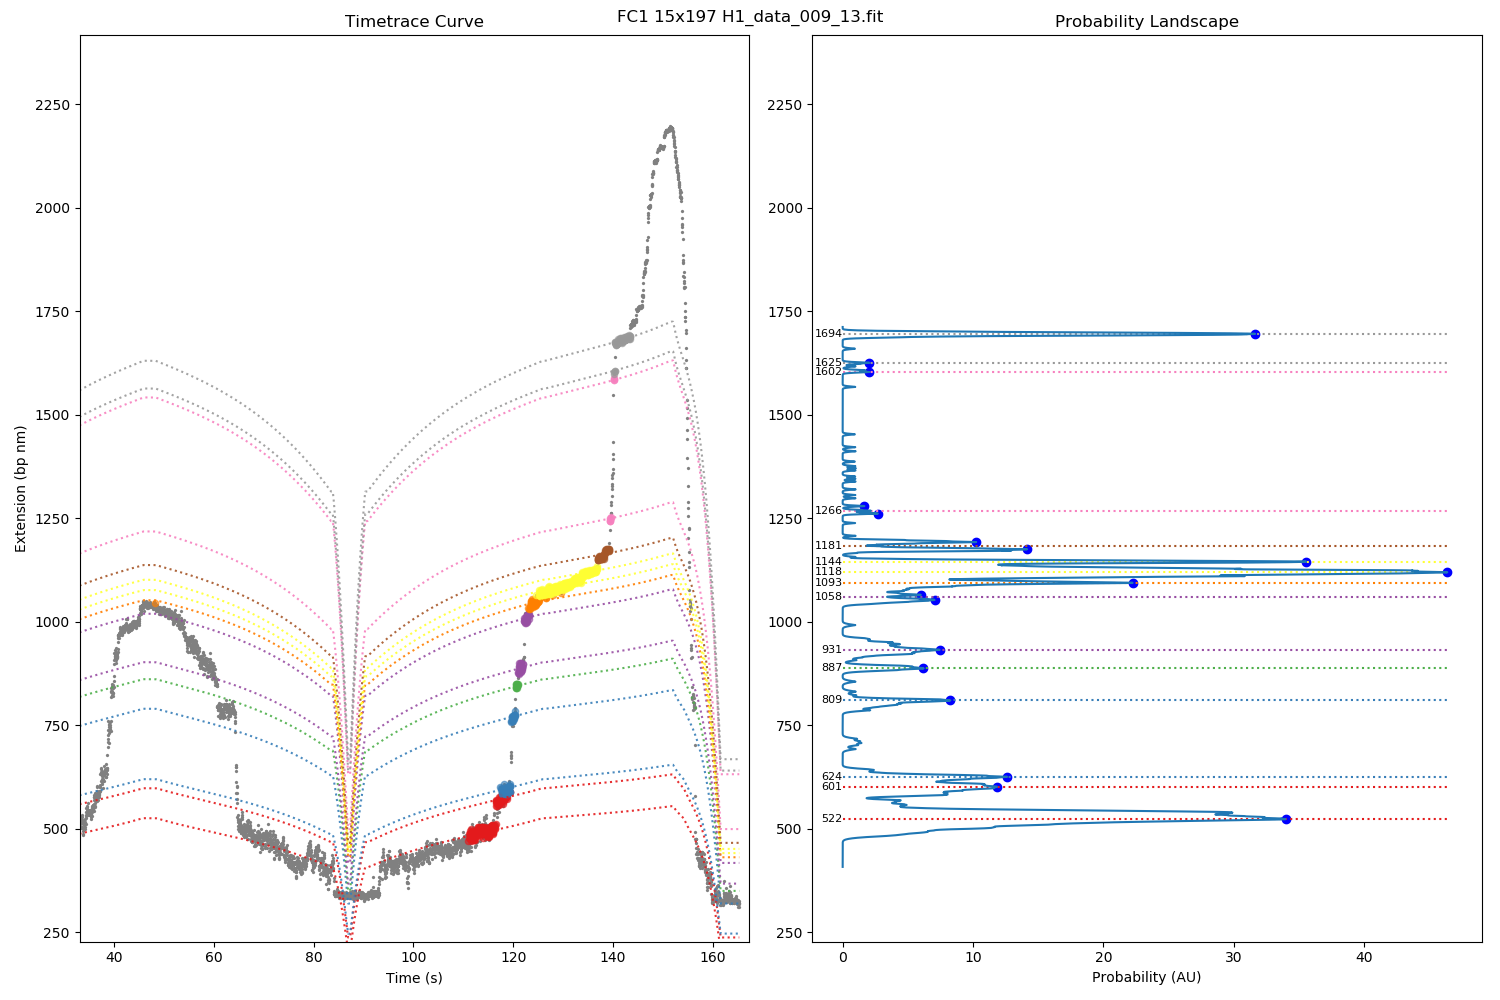
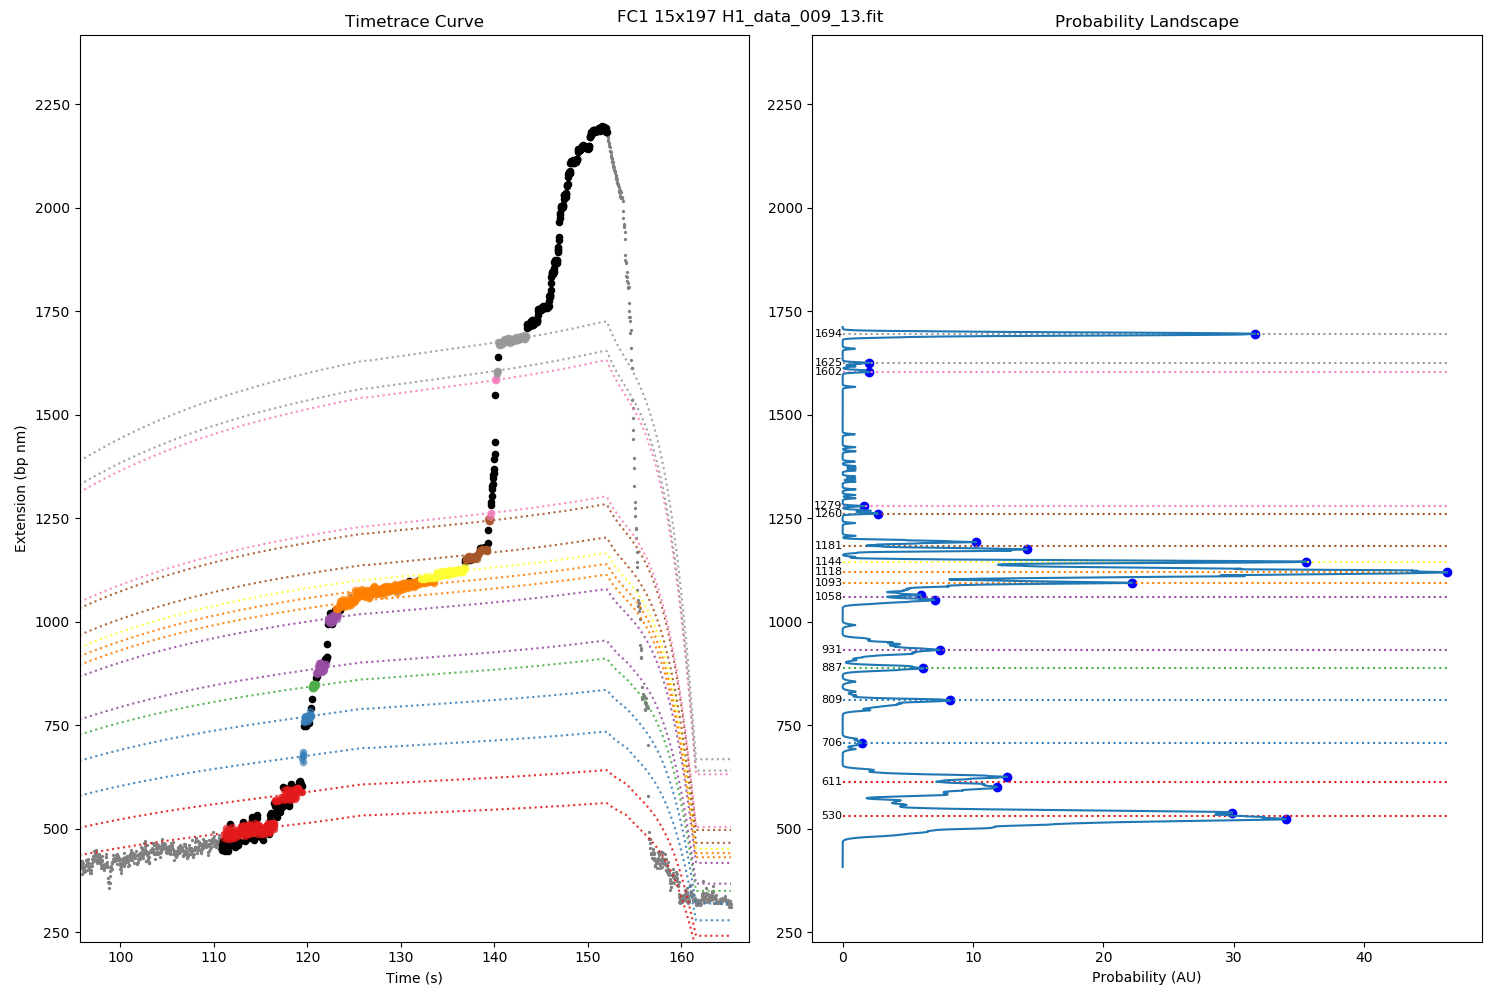
Long Live Overlap
Removed silly Statistical testing, added Overlap again

diff --git a/Functions.py b/Functions.py
@@ -99,7 +99,7 @@ def ratio(x, Pars):
     Lmin = Unwrapped bp with fiber fully folded
     Lmax = Countour length of the DNA in the beads on a string conformation, where the remaining nucleosomes are still attached
     Imputs can be arrays"""
-    if Pars['LFiber_bp']<0:
+    if Pars['LFiber_bp']<=0:
         return x*0
     Ratio = np.array((Pars['LFiber_bp']-(x-Pars['FiberStart_bp']))/(Pars['LFiber_bp']))
     Ratio[Ratio<=0] = 0                                                         #removes values below 0, makes them 0
@@ -145,7 +145,9 @@ def probsum(F, Z, PossibleStates, Pars, Fmax_Hook=10):
 def find_states_prob(F_Selected, Z_Selected, F, Z, Pars, MergeStates=False, Z_Cutoff=2):
     """Finds states based on the probablitiy landscape"""     
     #Generate FE curves for possible states
-    PossibleStates = np.arange(Pars['FiberStart_bp']-200, Pars['L_bp']+50,1)    #range to fit 
+    start = Pars['FiberStart_bp']-200
+    if start <= 0: start = 1 
+    PossibleStates = np.arange(start, Pars['L_bp']+50,1)    #range to fit 
     ProbSum = probsum(F_Selected, Z_Selected, PossibleStates, Pars)             #Calculate probability landscape
     PeakInd, Peak = peakdetect(ProbSum, delta=1)                                      #Find Peaks    
     States = PossibleStates[PeakInd]                                            #Defines state for each peak
@@ -161,6 +163,14 @@ def find_states_prob(F_Selected, Z_Selected, F, Z, Pars, MergeStates=False, Z_Cu
     
     std = STD(F_Selected, Z_Selected, States, Pars)
     z_Score = z_score(Z_Selected, AllStates_Selected, std, States)    
+    
+#    import matplotlib.pyplot as plt
+#    fig, ax = plt.subplots()
+##    ax.plot(z_Score[:,3], F_Selected)
+#    for i in np.arange(len(States)-1):
+#        ax.plot(z_Score[:,i]-z_Score[:,i+1], F_Selected, label=i)
+#    ax.legend()
+    
     
     StateMask = np.abs(z_Score) < Z_Cutoff
     PointsPerState = np.sum(StateMask, axis=0)
@@ -199,23 +209,14 @@ def find_states_prob(F_Selected, Z_Selected, F, Z, Pars, MergeStates=False, Z_Cu
         MergedSum = np.sum(MergedStateMask)
 #        print("# Of point within 2.5 sigma in State", i, ":State", i+1, ":Merged =", PointsPerState[i],":", PointsPerState[i+1], ":", MergedSum)
         
-        #print(stats.f_oneway( Newz_Score[:,i], Newz_Score[:,i+1]))
-        #print(MergedStateMask)
+        #Fraction of overlapping points in datapoints between two initial states:                      
+        Overlap = np.sum(NewStateMask[:,i] * NewStateMask[:,i+1])/np.min([PointsPerState[i], PointsPerState[i+1]]) 
         
-        Diff = []
-        Diff.append(NewStateMask[:,i] * NewStateMask[:,i+1])
-        Diff.append(MergedStateMask * NewStateMask[:,i])
-        Diff.append(MergedStateMask * NewStateMask[:,i+1])
+        #Fraction overlapping points in datapoints between the merged state and sum of two initial states:   
+        overlap = np.sum(np.any([NewStateMask[:,i],NewStateMask[:,i+1]], axis=0)*MergedStateMask*1)/np.max([np.sum(NewStateMask[:,i]),np.sum(NewStateMask[:,i+1])])
         
-        Overlap = []
-        Overlap.append(len(Diff[0][Diff[0]==True])/np.min([PointsPerState[i], PointsPerState[i+1]]))
-        Overlap.append(len(Diff[1][Diff[1]==True])/np.min([MergedSum, PointsPerState[i]]))
-        Overlap.append(len(Diff[2][Diff[2]==True])/np.min([MergedSum, PointsPerState[i+1]]))
-
-#        print(Overlap, PointsPerState[i], PointsPerState[i+1], MergedSum)
-        
-
-        if stats.f_oneway(Newz_Score[:,i], Newz_Score[:,i+1])[1] > 0.1:        # #What criterium should be here?!
+        #Merge Overlapping states when new state is better:
+        if Overlap  > 0.5 and overlap > 0.8:                                   #stats.mannwhitneyu(Z_Selected[NewStateMask[:,i]], Z_Selected[NewStateMask[:,i+1]])[1] > 0.00001:        # #What criterium should be here?!
             NewStates = np.delete(NewStates, i)
             PointsPerState = np.delete(PointsPerState, i)
             NewStateMask = np.delete(NewStateMask, i, axis=1)
@@ -316,7 +317,7 @@ def RuptureForces(F_Selected, Z_Selected, States, Pars, ax1):
     F_Rup_up = []
     F_Rup_down = []
     for i, j in enumerate(MedianFilt):    
-        Plot.append(AllStates_Selected[i,j])
+        Plot.append(AllStates_Selected[i,int(j)])
         if k > j:
             F_Rup_up.append(F_Selected[i])
         if j > k:

diff --git a/Main.py b/Main.py
@@ -19,7 +19,7 @@ start_time = time.time()
 
 plt.close('all')                                                                #Close all the figures from previous sessions
 
-folder = r'N:\Rick\Fit Files\Pythontestfit'
+folder = r'N:\Rick\Fit Files\15x197 H1 Best Traces'
 folder = folder.replace('\\', '\\\\')                                           #Replaces \ for \\
 
 newpath = folder+r'\\Figures'                                                   #New path to save the figures
@@ -33,10 +33,9 @@ filenames = os.listdir(folder)
 os.chdir(folder)
 
 PlotSelected = False                                                             #Choose to plot selected only
+MeasurementERR = 5                                                              #nm
 
-MeasurementERR = 5 #nm
-
-Handles = Tools.Define_Handles(Select=PlotSelected, Pull=True, DelBreaks=True, MinForce=2.5, MinZ=0, MaxZ=False, Onepull=True, MedFilt=False)
+Handles = Tools.Define_Handles(Select=PlotSelected, Pull=True, DelBreaks=True, MinForce=2.5, MaxForce=True, MinZ=0, MaxZ=False, Onepull=True, MedFilt=False)
 steps , stacks = [],[]                                                          #used to save data (T-test)
 Steps , Stacks = [],[]                                                          #used to save data (Smoothening)
 F_rup, dZ_rup = np.array([]), np.array([])                                      #Rupture forces and corresponding jumps
@@ -133,7 +132,7 @@ for Filenum, Filename in enumerate(Filenames):
     Statemask = NewStateMask
     AllStates = NewAllStates    
     
-    colors = [plt.cm.Set1(each) for each in np.linspace(0, 1, len(States))]     #Color pattern for the states
+    colors = [plt.cm.rainbow(each) for each in np.linspace(0, 1, len(States))]     #Color pattern for the states
     dX = 10                                                                     #Offset for text in plot
 
     #Calculate the rupture forces using a median filter    
@@ -201,7 +200,7 @@ ax6 = fig3.add_subplot(1,2,2)
 Range = [0,400]
 Bins = 50
 n = ax5.hist(Steps,  bins = Bins, range = Range, lw=0.5, zorder = 1, color='blue', label='25 nm steps')[0]
-ax6.hist(Stacks, bins = Bins, range = Range, lw=0.5, zorder = 1, color='orange', label='Stacking transitions')
+ax6.hist(Stacks, bins = int(Bins / 2), range = Range, lw=0.5, zorder = 1, color='orange', label='Stacking transitions')
 
 
 #Fitting double gaussian over Steps

diff --git a/Tools.py b/Tools.py
@@ -9,13 +9,14 @@ Created on Wed Jan  3 14:52:17 2018
 import numpy as np
 from scipy import signal
 
-def Define_Handles(Select=True, Pull=True, DelBreaks=True, MinForce=2, MinZ=0, MaxZ=False, Onepull=True, MedFilt=False):
+def Define_Handles(Select=True, Pull=True, DelBreaks=True, MinForce=2, MaxForce=True, MinZ=0, MaxZ=False, Onepull=True, MedFilt=False):
     """If analysis has to be done on only part of the data, these options can be used"""
     Handles = {}
     Handles['Select'] = Select
     Handles['Pulling'] = Pull
     Handles['DelBreaks'] = DelBreaks
     Handles['MinForce'] = MinForce
+    Handles['MaxForce'] = MaxForce
     Handles['MinZ'] = MinZ
     Handles['MaxZ'] = MaxZ
     Handles['MedFilt'] = MedFilt
